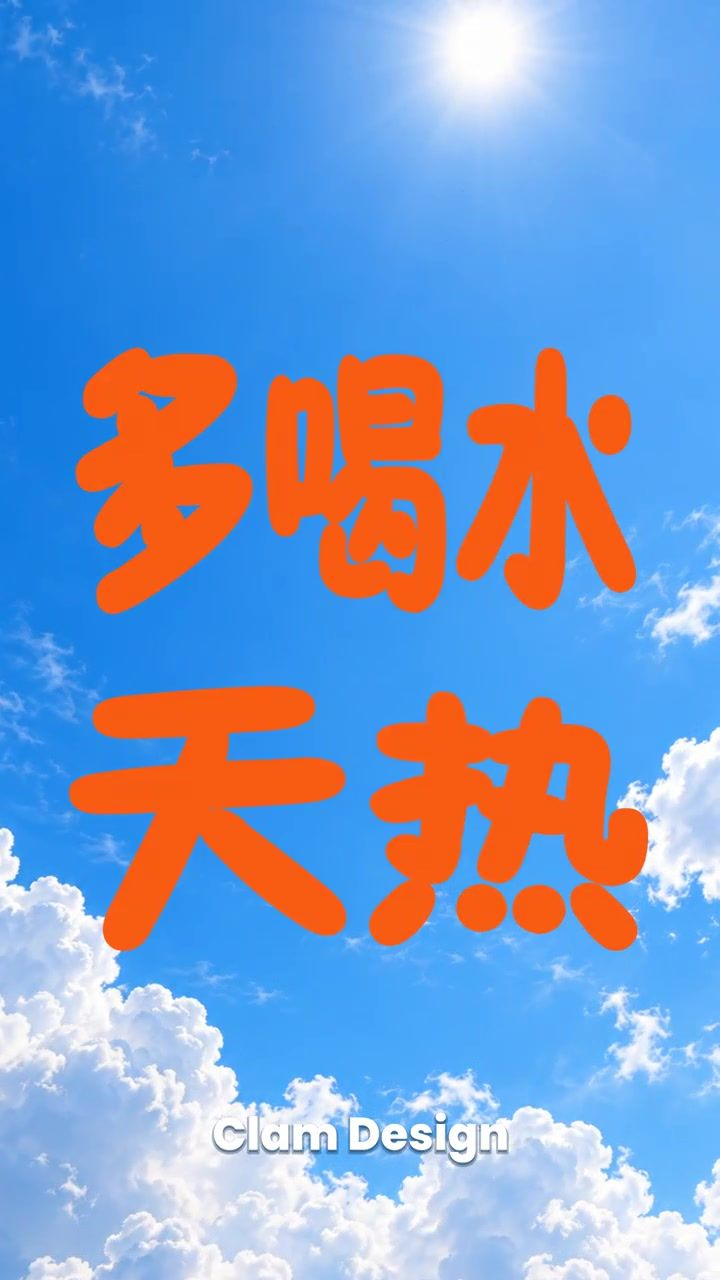
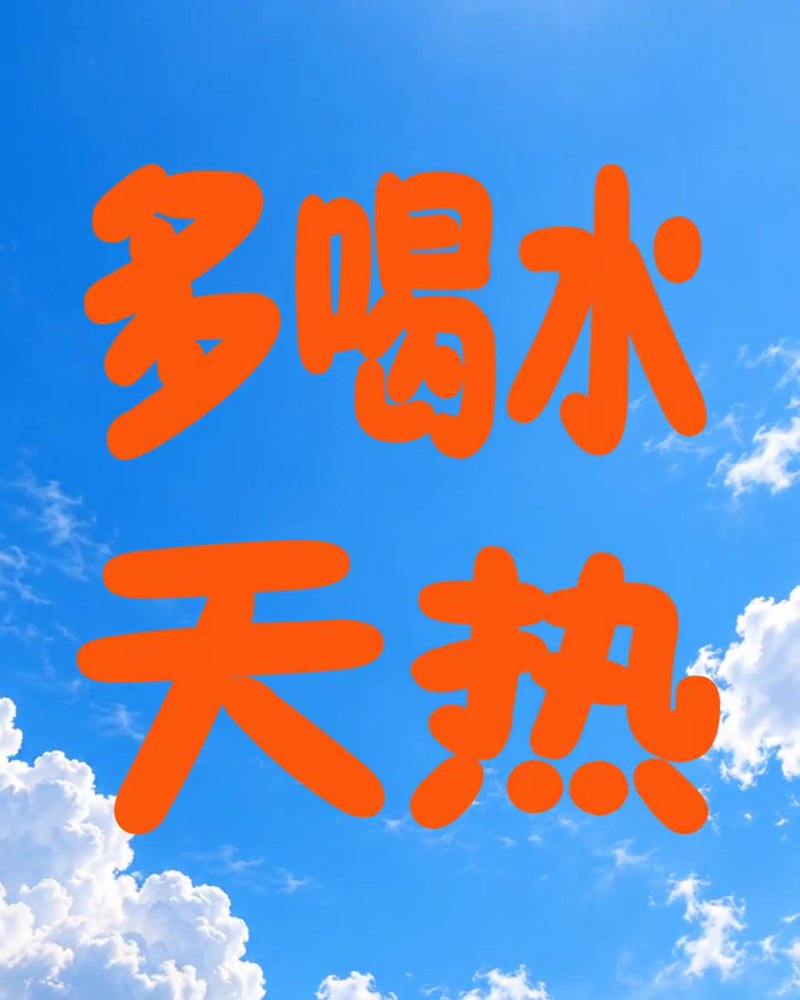
Duoheshui card 4:5 portrait with new poster

diff --git a/motion-duoheshui.html b/motion-duoheshui.html
@@ -4,10 +4,10 @@
     <meta charset="utf-8">
     <meta name="viewport" content="width=device-width, initial-scale=1">
     <meta name="theme-color" content="rgb(255, 255, 255)">
-    <meta name="description" content="「多喝水，天热」 — 张子文动态视觉作品">
-    <title>「多喝水，天热」 — 张子文</title>
+    <meta name="description" content="天热，多喝水｜夏日动态字体海报设计 — 张子文动态视觉作品">
+    <title>天热，多喝水｜夏日动态字体海报设计 — 张子文</title>
     <link rel="icon" href="./favicon.svg" type="image/svg+xml">
-    <link rel="stylesheet" href="./styles.css?v=14">
+    <link rel="stylesheet" href="./styles.css?v=15">
     <script src="./script.js" defer></script>
   </head>
   <body>
@@ -16,8 +16,8 @@
       <header class="section proj-hero" data-theme-color="rgb(255, 255, 255)">
         <div class="main-content-wrapper"><div class="content">
           <a class="back-link" href="./motion.html">← 返回动态视觉</a>
-          <h1><span class="timestamp">动态视觉</span><br>「多喝水，天热」 <span class="work-en">Clam Design</span></h1>
-          <p>动态字体海报。蓝天白云实景之上，「多喝水 天热」卡通字体的入场与变色动效，竖版社媒动画。时长 7 秒。</p>
+          <h1><span class="timestamp">动态视觉</span><br>天热，多喝水 <span class="work-en">夏日动态字体海报设计</span></h1>
+          <p>以「天热，多喝水」为核心信息，通过直观而轻松的视觉语言传达夏季补水提醒。画面采用真实晴空与云层作为背景，以高饱和橙色手写字体作为视觉主体，利用蓝色与橙色的强烈冷暖对比，强化炎热天气下的视觉冲击与传播效率。动画从分散的字体笔画和多层色块开始，通过逐步拼合、覆盖与色彩转换形成完整文案，最终统一为醒目的橙色标题。时长 7 秒。</p>
           <div class="proj-meta"><span>年份 —</span><span>角色 —</span><span>工具 —</span><span>时长 00:07</span></div>
         </div></div>
       </header>

diff --git a/motion.html b/motion.html
@@ -7,7 +7,7 @@
     <meta name="description" content="张子文的动态视觉作品：Clam 字标动画、多喝水天热、打开夏天喝口冰的">
     <title>动态视觉 Motion Design — 张子文</title>
     <link rel="icon" href="./favicon.svg" type="image/svg+xml">
-    <link rel="stylesheet" href="./styles.css?v=14">
+    <link rel="stylesheet" href="./styles.css?v=15">
     <script src="./script.js" defer></script>
   </head>
   <body>
@@ -34,9 +34,9 @@
             </a>
             <a class="work-card-link" href="motion-duoheshui.html">
               <article class="work-card">
-                <div class="work-thumb"><img src="images/motion-02.jpg" alt="多喝水天热 动态字体海报" loading="lazy"></div>
-                <h3>「多喝水，天热」<span class="work-en">Clam Design</span></h3>
-                <p>动态字体海报。蓝天白云实景之上的卡通字体入场与变色动效，竖版社媒动画。</p>
+                <div class="work-thumb"><img src="images/motion-02.jpg" alt="天热，多喝水 夏日动态字体海报设计" loading="lazy"></div>
+                <h3>天热，多喝水<span class="work-en">夏日动态字体海报设计</span></h3>
+                <p>晴空云层之上，高饱和橙色手写字体拼合成形，蓝橙冷暖对比传达夏季补水提醒。</p>
               </article>
             </a>
             <a class="work-card-link" href="motion-bingkafei.html">

diff --git a/index.html b/index.html
@@ -7,7 +7,7 @@
     <meta name="description" content="张子文的个人设计作品集">
     <title>张子文 — Portfolio</title>
     <link rel="icon" href="./favicon.svg" type="image/svg+xml">
-    <link rel="stylesheet" href="./styles.css?v=14">
+    <link rel="stylesheet" href="./styles.css?v=15">
     <script src="./script.js?v=2" defer></script>
   </head>
   <body>
@@ -84,7 +84,7 @@
               <div class="mock-card brand-card is-circle bc-a"><img src="images/motion-01.jpg" alt="Clam 品牌动态标志设计"></div>
             </a>
             <a class="bc-link" href="motion-duoheshui.html" aria-label="查看多喝水天热动态海报">
-              <div class="mock-card brand-card bc-b"><img src="images/motion-02.jpg" alt="多喝水天热动态字体海报"></div>
+              <div class="mock-card brand-card is-portrait bc-b"><img src="images/motion-02.jpg" alt="天热，多喝水 夏日动态字体海报设计"></div>
             </a>
             <a class="bc-link" href="motion-bingkafei.html" aria-label="查看打开夏天喝口冰的动态海报">
               <div class="mock-card brand-card is-portrait bc-c"><img src="images/motion-03.jpg" alt="CLAM COFFEE 夏日冰咖啡动态海报设计"></div>

diff --git a/editorial-haibian.html b/editorial-haibian.html
@@ -7,7 +7,7 @@
     <meta name="description" content="海边来信｜移动端长图与内容视觉设计 — 张子文编辑设计作品">
     <title>海边来信｜移动端长图与内容视觉设计 — 张子文</title>
     <link rel="icon" href="./favicon.svg" type="image/svg+xml">
-    <link rel="stylesheet" href="./styles.css?v=14">
+    <link rel="stylesheet" href="./styles.css?v=15">
     <script src="./script.js" defer></script>
   </head>
   <body>

diff --git a/editorial-xiari.html b/editorial-xiari.html
@@ -7,7 +7,7 @@
     <meta name="description" content="夏日橘园｜移动端长图与内容视觉设计 — 张子文编辑设计作品">
     <title>夏日橘园｜移动端长图与内容视觉设计 — 张子文</title>
     <link rel="icon" href="./favicon.svg" type="image/svg+xml">
-    <link rel="stylesheet" href="./styles.css?v=14">
+    <link rel="stylesheet" href="./styles.css?v=15">
     <script src="./script.js" defer></script>
   </head>
   <body>

diff --git a/editorial-yujin.html b/editorial-yujin.html
@@ -7,7 +7,7 @@
     <meta name="description" content="余烬中的年代｜书籍装帧与编辑设计 — 张子文编辑设计作品">
     <title>余烬中的年代｜书籍装帧与编辑设计 — 张子文</title>
     <link rel="icon" href="./favicon.svg" type="image/svg+xml">
-    <link rel="stylesheet" href="./styles.css?v=14">
+    <link rel="stylesheet" href="./styles.css?v=15">
     <script src="./script.js" defer></script>
   </head>
   <body>

diff --git a/motion-bingkafei.html b/motion-bingkafei.html
@@ -7,7 +7,7 @@
     <meta name="description" content="CLAM COFFEE｜夏日冰咖啡动态海报设计 — 张子文动态视觉作品">
     <title>CLAM COFFEE｜夏日冰咖啡动态海报设计 — 张子文</title>
     <link rel="icon" href="./favicon.svg" type="image/svg+xml">
-    <link rel="stylesheet" href="./styles.css?v=14">
+    <link rel="stylesheet" href="./styles.css?v=15">
     <script src="./script.js" defer></script>
   </head>
   <body>

diff --git a/editorial.html b/editorial.html
@@ -7,7 +7,7 @@
     <meta name="description" content="张子文的编辑设计作品：余烬中的年代、蓝境 AZURE、夏日橘园、海边来信">
     <title>编辑设计 Editorial Design — 张子文</title>
     <link rel="icon" href="./favicon.svg" type="image/svg+xml">
-    <link rel="stylesheet" href="./styles.css?v=14">
+    <link rel="stylesheet" href="./styles.css?v=15">
     <script src="./script.js" defer></script>
   </head>
   <body>

diff --git a/brand-guoran.html b/brand-guoran.html
@@ -7,7 +7,7 @@
     <meta name="description" content="果然好玩｜果园探索品牌视觉设计 — 张子文品牌视觉作品">
     <title>果然好玩｜果园探索品牌视觉设计 — 张子文</title>
     <link rel="icon" href="./favicon.svg" type="image/svg+xml">
-    <link rel="stylesheet" href="./styles.css?v=14">
+    <link rel="stylesheet" href="./styles.css?v=15">
     <script src="./script.js" defer></script>
   </head>
   <body>

diff --git a/brand-mello.html b/brand-mello.html
@@ -7,7 +7,7 @@
     <meta name="description" content="麦日 Mello｜日常烘焙品牌视觉设计 — 张子文品牌视觉作品">
     <title>麦日 Mello｜日常烘焙品牌视觉设计 — 张子文</title>
     <link rel="icon" href="./favicon.svg" type="image/svg+xml">
-    <link rel="stylesheet" href="./styles.css?v=14">
+    <link rel="stylesheet" href="./styles.css?v=15">
     <script src="./script.js" defer></script>
   </head>
   <body>

diff --git a/editorial-lanjing.html b/editorial-lanjing.html
@@ -7,7 +7,7 @@
     <meta name="description" content="蓝境 AZURE｜文化旅行杂志编辑设计 — 张子文编辑设计作品">
     <title>蓝境 AZURE｜文化旅行杂志编辑设计 — 张子文</title>
     <link rel="icon" href="./favicon.svg" type="image/svg+xml">
-    <link rel="stylesheet" href="./styles.css?v=14">
+    <link rel="stylesheet" href="./styles.css?v=15">
     <script src="./script.js" defer></script>
   </head>
   <body>

diff --git a/brand.html b/brand.html
@@ -7,7 +7,7 @@
     <meta name="description" content="张子文的品牌视觉作品：果然好玩、麦日 Mello、野甜椒等品牌设计项目">
     <title>品牌视觉 Brand Identity — 张子文</title>
     <link rel="icon" href="./favicon.svg" type="image/svg+xml">
-    <link rel="stylesheet" href="./styles.css?v=14">
+    <link rel="stylesheet" href="./styles.css?v=15">
     <script src="./script.js" defer></script>
   </head>
   <body>
